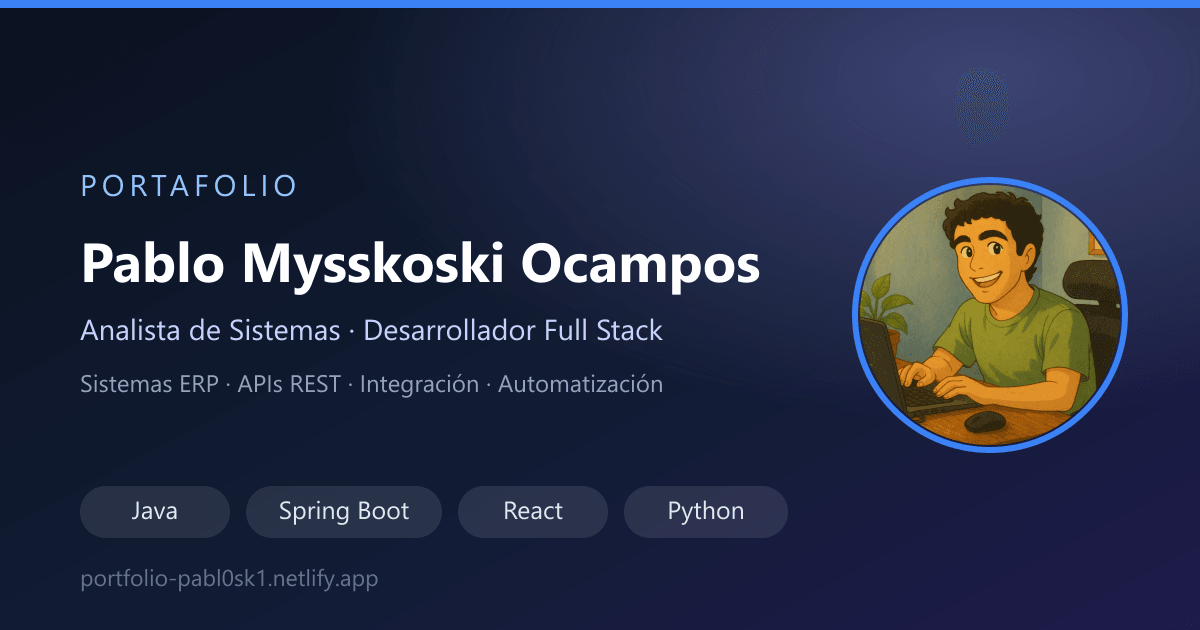
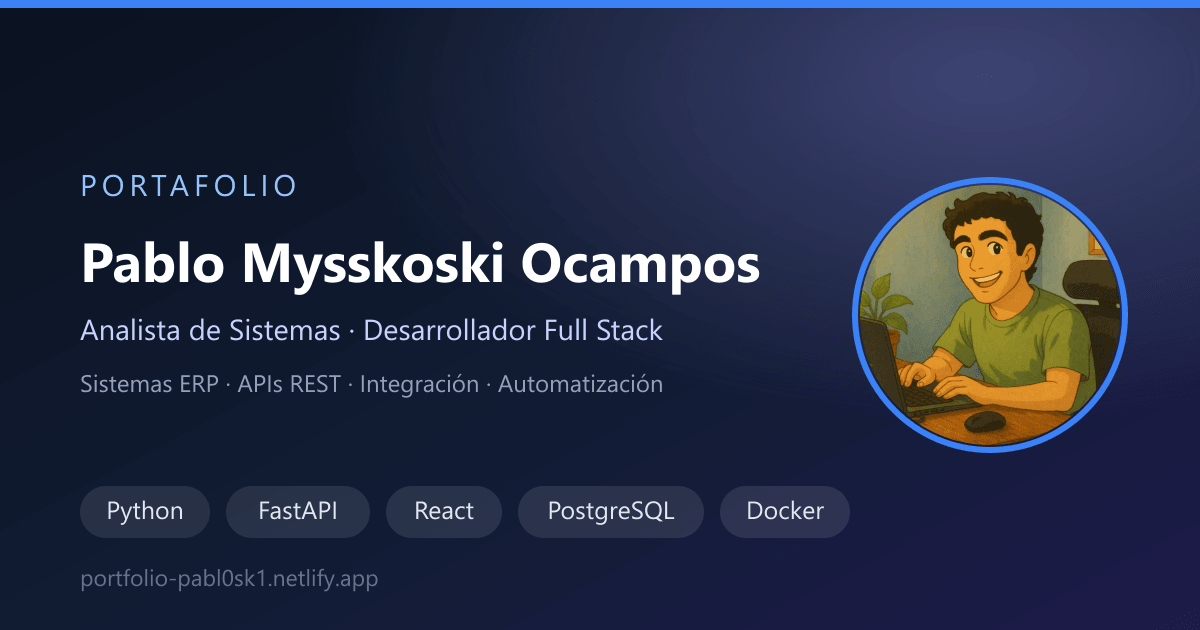
feat: anadir ELBRUX a experiencia, scrollbar propio y stack por evidencia
ELBRUX entra como primera entrada de experiencia, con su logo y el periodo
que quedaba sin cubrir desde junio de 2026. Se aclara que es un emprendimiento
de dos socios y se suman Scrum, Kanban y ClickUp, que no aparecian por ningun
lado pese a ser como se organiza el trabajo. Dejar claro que son dos suma:
responde sola la duda de si sabe trabajar en equipo.

El stack pasa de tres niveles a dos mas un grupo aparte, porque la version
anterior no se sostenia:
- "secundario" y "terciario" decian lo mismo con otras palabras
- mezclaba cosas sin relacion bajo la palabra "stack"
- sobre todo, el orden contradecia la evidencia: Laravel y Next.js estaban por
  encima de Java y Spring Boot, pero no aparecen en ningun proyecto ni puesto,
  mientras que Java suma 6 menciones y 2 proyectos

Ahora "tambien trabajo con" agrupa lo respaldado por trabajo entregado, y
Laravel y Next.js quedan en "conozco, en aprendizaje", que es lo honesto y
evita la pregunta incomoda en una entrevista.

Ademas:
- scrollbar propio con los colores de la marca, cuya pista arranca por debajo
  del header fijo en vez de correr por detras
- las reglas de Firefox van aisladas con @supports: desde Chrome 121 declarar
  scrollbar-width desactiva por completo ::-webkit-scrollbar
- las tarjetas de experiencia eran sticky top-0 y se metian bajo el header
- la imagen de vista previa seguia anunciando Java y Spring Boot como stack

Changed region(s): [[0.2158, 0.7841, 0.6783, 0.8444], [0.0925, 0.7841, 0.1542, 0.8444], [0.8017, 0.1206, 0.8325, 0.2111]]

diff --git a/src/i18n/content.ts b/src/i18n/content.ts
@@ -18,6 +18,20 @@ export interface ProjectEntry {
 export const experience: Record<Lang, ExperienceEntry[]> = {
   es: [
     {
+      date: "Junio 2026 - Actualidad",
+      title: "Cofundador y Desarrollador Full Stack",
+      company: "ELBRUX",
+      location: "Alto Paraná, Paraguay",
+      description: [
+        "Cofundé ELBRUX junto a un socio: un emprendimiento de desarrollo de software a medida para pymes, donde ambos programamos y llevamos el negocio de punta a punta, desde la búsqueda de clientes y el presupuesto hasta el contrato, la entrega y el soporte.",
+        "Desarrollamos Faro, sistema web de Recursos Humanos multi-tenant en producción para una empresa industrial de 80 empleados, con backend en Python y FastAPI sobre PostgreSQL, aislamiento de datos por empresa con Row-Level Security, MFA y control de acceso por roles.",
+        "Construimos Timón, sistema de gestión para talleres mecánicos, reutilizando el núcleo multi-tenant de Faro como plantilla de producto para acortar el tiempo de desarrollo de la siguiente vertical.",
+        "Entregamos StockPro, aplicación de escritorio de gestión comercial en Python y SQLite, instalada y en uso en un cliente, con actualización remota y migraciones de esquema versionadas.",
+        "Desplegamos la infraestructura con Docker y Docker Compose detrás de Caddy con HTTPS automático, con CI/CD en GitHub Actions y copias de seguridad diarias con restauración verificada.",
+        "Organizamos el trabajo con metodologías ágiles, aplicando Scrum y Kanban sobre ClickUp para planificar, repartir y dar seguimiento a las tareas entre ambos.",
+      ],
+    },
+    {
       date: "Mayo 2025 - Junio 2026",
       title: "Analista de Sistemas / Desarrollador Full Stack",
       company: "Biosafras Group",
@@ -48,6 +62,20 @@ export const experience: Record<Lang, ExperienceEntry[]> = {
   ],
 
   en: [
+    {
+      date: "June 2026 - Present",
+      title: "Co-founder and Full Stack Developer",
+      company: "ELBRUX",
+      location: "Hernandarias, Paraguay",
+      description: [
+        "Co-founded ELBRUX with a business partner: a custom software venture for small and medium businesses, where we both write code and run the business end to end, from finding clients and quoting through to contracts, delivery and support.",
+        "Built Faro, a multi-tenant HR web platform running in production for an industrial company of 80 employees, with a Python and FastAPI backend on PostgreSQL, per-tenant data isolation using Row-Level Security, MFA and role-based access control.",
+        "Built Timon, a management system for car repair shops, reusing Faro's multi-tenant core as a product template to shorten the build time of the next vertical.",
+        "Delivered StockPro, a Python and SQLite desktop application for commercial management, installed and in daily use at a client, with remote updates and versioned schema migrations.",
+        "Deployed the infrastructure with Docker and Docker Compose behind Caddy with automatic HTTPS, with CI/CD on GitHub Actions and daily backups with verified restores.",
+        "Organised the work with agile methodologies, applying Scrum and Kanban on ClickUp to plan, split and track tasks between the two of us.",
+      ],
+    },
     {
       date: "May 2025 - June 2026",
       title: "Systems Analyst / Full Stack Developer",

diff --git a/src/i18n/ui.ts b/src/i18n/ui.ts
@@ -65,10 +65,10 @@ export const ui = {
 
     "stack.main": "Stack principal",
     "stack.mainNote": "Lo que uso a diario y donde estoy más fuerte",
-    "stack.secondary": "Stack secundario",
-    "stack.secondaryNote": "Trabajo con soltura, con menos horas de vuelo",
-    "stack.other": "También he trabajado con",
-    "stack.otherNote": "Experiencia real en proyectos, sin ser mi foco actual",
+    "stack.also": "También trabajo con",
+    "stack.alsoNote": "Tecnologías que usé en proyectos reales, respaldadas por trabajo entregado",
+    "stack.learning": "Conozco, en aprendizaje",
+    "stack.learningNote": "Bases sólidas, todavía sin proyectos propios en producción",
     "stack.ai": "Asistentes de IA",
     "stack.aiNote": "Apoyo en el día a día de desarrollo",
     "stack.tools": "Herramientas",
@@ -155,10 +155,10 @@ export const ui = {
 
     "stack.main": "Core stack",
     "stack.mainNote": "What I use daily and where I'm strongest",
-    "stack.secondary": "Secondary stack",
-    "stack.secondaryNote": "Comfortable with, fewer hours logged",
-    "stack.other": "Also worked with",
-    "stack.otherNote": "Real project experience, not my current focus",
+    "stack.also": "Also work with",
+    "stack.alsoNote": "Technologies I've used in real projects, backed by delivered work",
+    "stack.learning": "Familiar with, still learning",
+    "stack.learningNote": "Solid basics, no production projects of my own yet",
     "stack.ai": "AI Assistants",
     "stack.aiNote": "Day-to-day development support",
     "stack.tools": "Tools",
